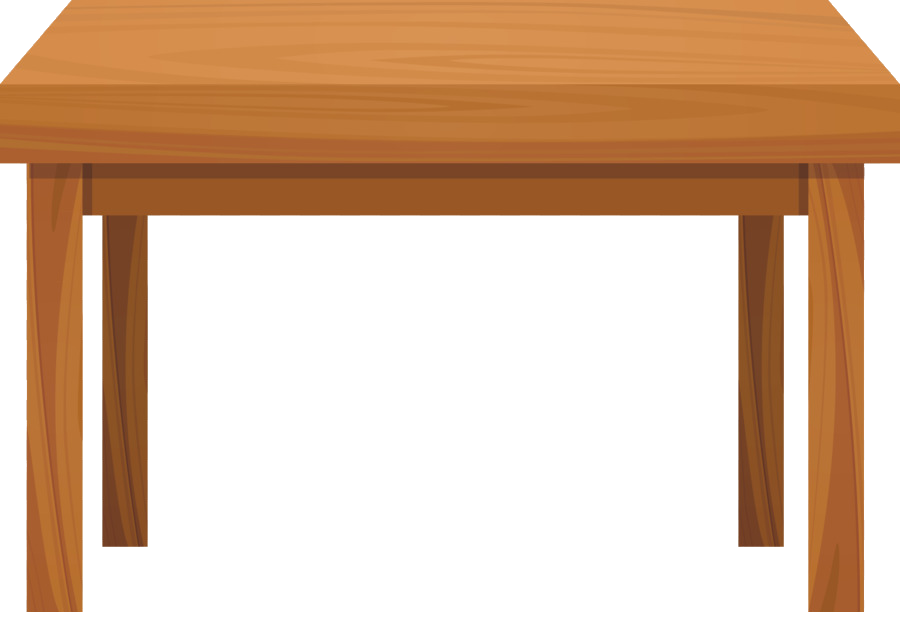
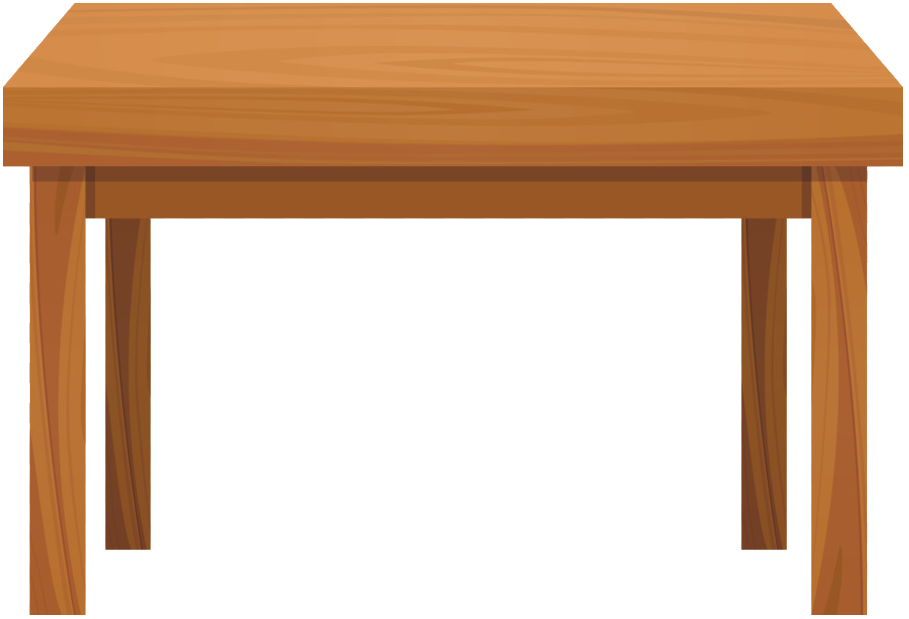
css element asset

diff --git a/GEA/indextouch.html b/GEA/indextouch.html
@@ -11,8 +11,26 @@
     
     <body>
         
-        <div id="touch_background">
-        
+          <div id="table" class="removable">
+            <img src="Immagini/touch/table.png" id="table_touch"/>
         </div>
+        
+        <div id="pyramid_container" class="removable pyramid">
+            <img src="Immagini/piramide/piano5.png" id="pyr5" class="pyr"/>
+            <img src="Immagini/piramide/piano4.png" id="pyr4" class="pyr"/>
+            <img src="Immagini/piramide/piano3.png" id="pyr3" class="pyr"/>
+            <img src="Immagini/piramide/piano2.png" id="pyr2" class="pyr"/>
+            <img src="Immagini/piramide/piano1.png" id="pyr1" class="pyr"/>
+        </div>
+        
+        <div id="bin_container" class ="removable healthy">
+        
+            <img src="Immagini/touch/bin.png" id="bin"/>
+        </div>
+        
+        <div id="feedback_touch" class="removable">
+            <img class="feedbk" src="Immagini/happy.png"/>
+        </div>
+        
     </body>
 </html>

diff --git a/GEA/Styles/main_landscape.css b/GEA/Styles/main_landscape.css
@@ -156,6 +156,64 @@
 
     }
 
+#table_touch {
+    width: 42%;
+    height: auto;
+}
 
+#table {
+    padding-left: 38%;
+    padding-top: 25%;
+    position: absolute;
+    display: block;
+}
+
+#pyramid_container {
+    width: 20%;
+    height:auto;
+    margin-top: 8%;
+    display: none;
+    margin-left: 19%;
+    position: absolute;
+}
+.pyr {
+    width: 94%;
+    height: auto;
+}
+
+#pyr4 {
+    padding-left: 3%;
+
+}
+#pyr5 {
+    padding-bottom: 1%;
+}
+
+#pyr3, #pyr4{
+    width: 92%;
+    height: auto;
+}
+
+#bin {
+    width: 13%;
+    position: absolute;
+    height: auto;
+    display: none;
+    margin-top: 30.5%;
+    margin-left: 63%;
+}
+
+.feedbk {
+    width: 40%;
+    display: none;
+    
+}
+
+#feedback_touch {
+    position: absolute;
+    margin-left: 40%;
+
+    margin-top:3%;
+}
 
 
